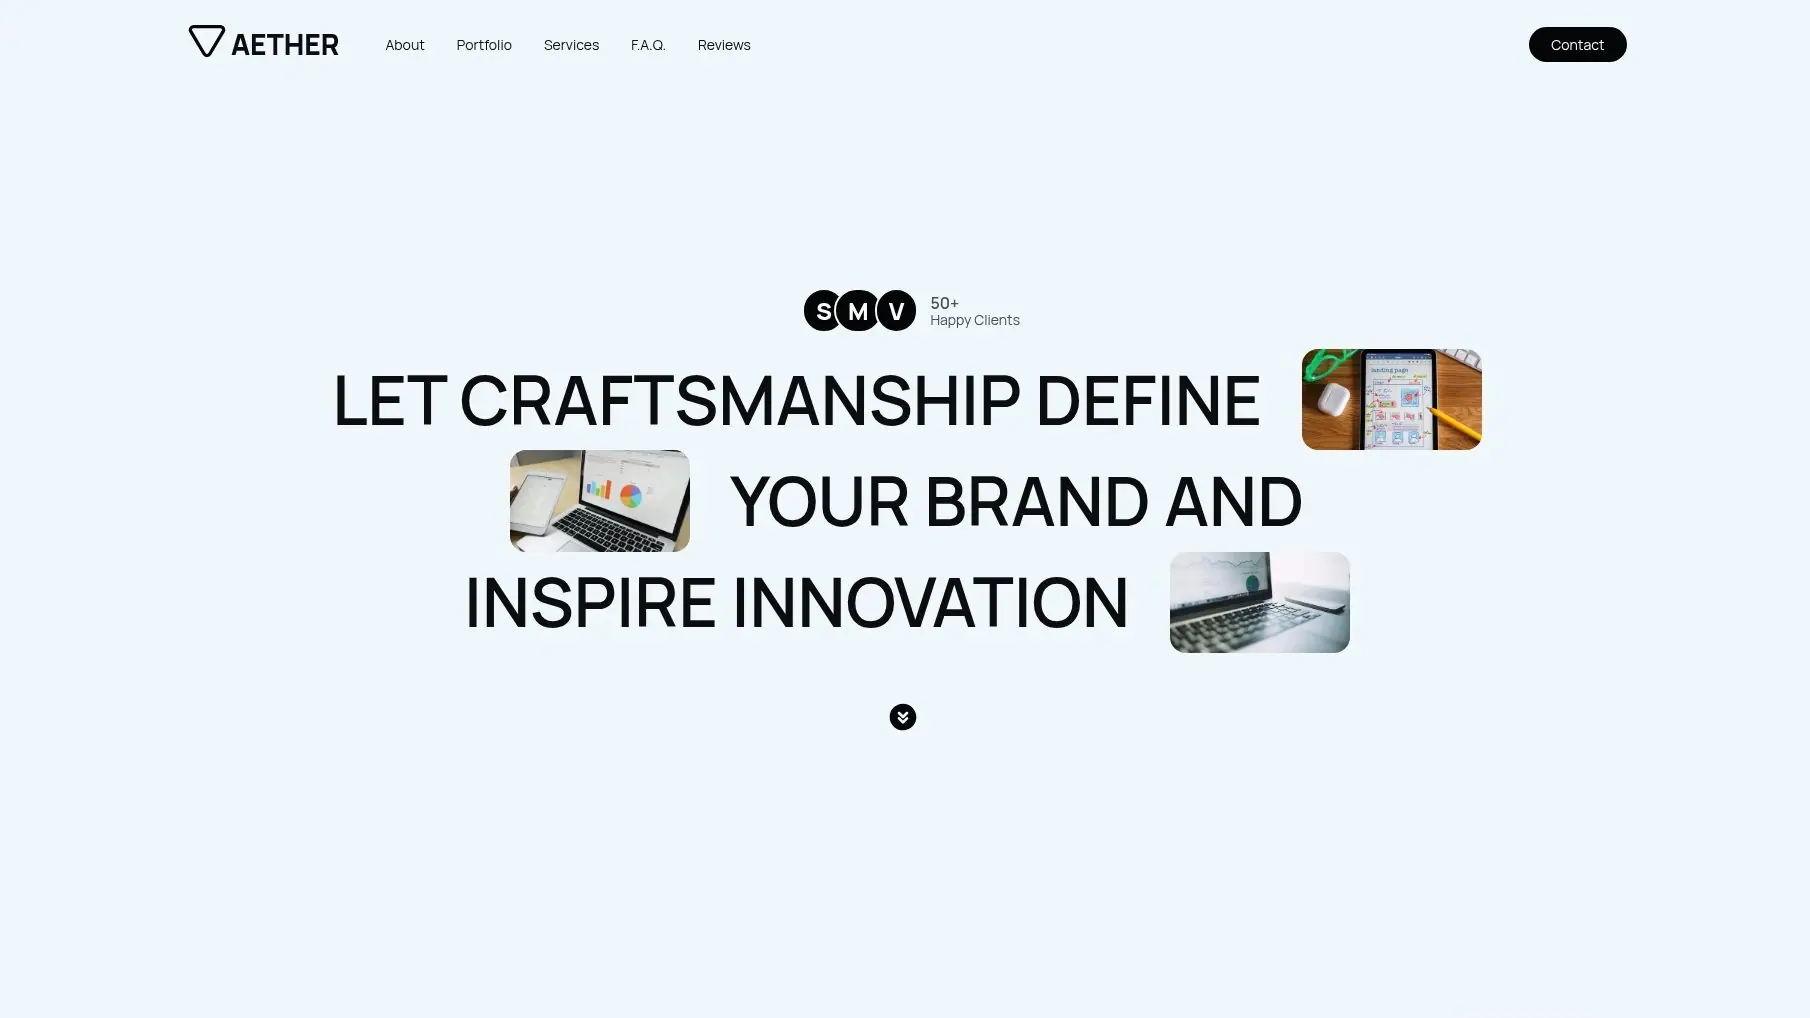
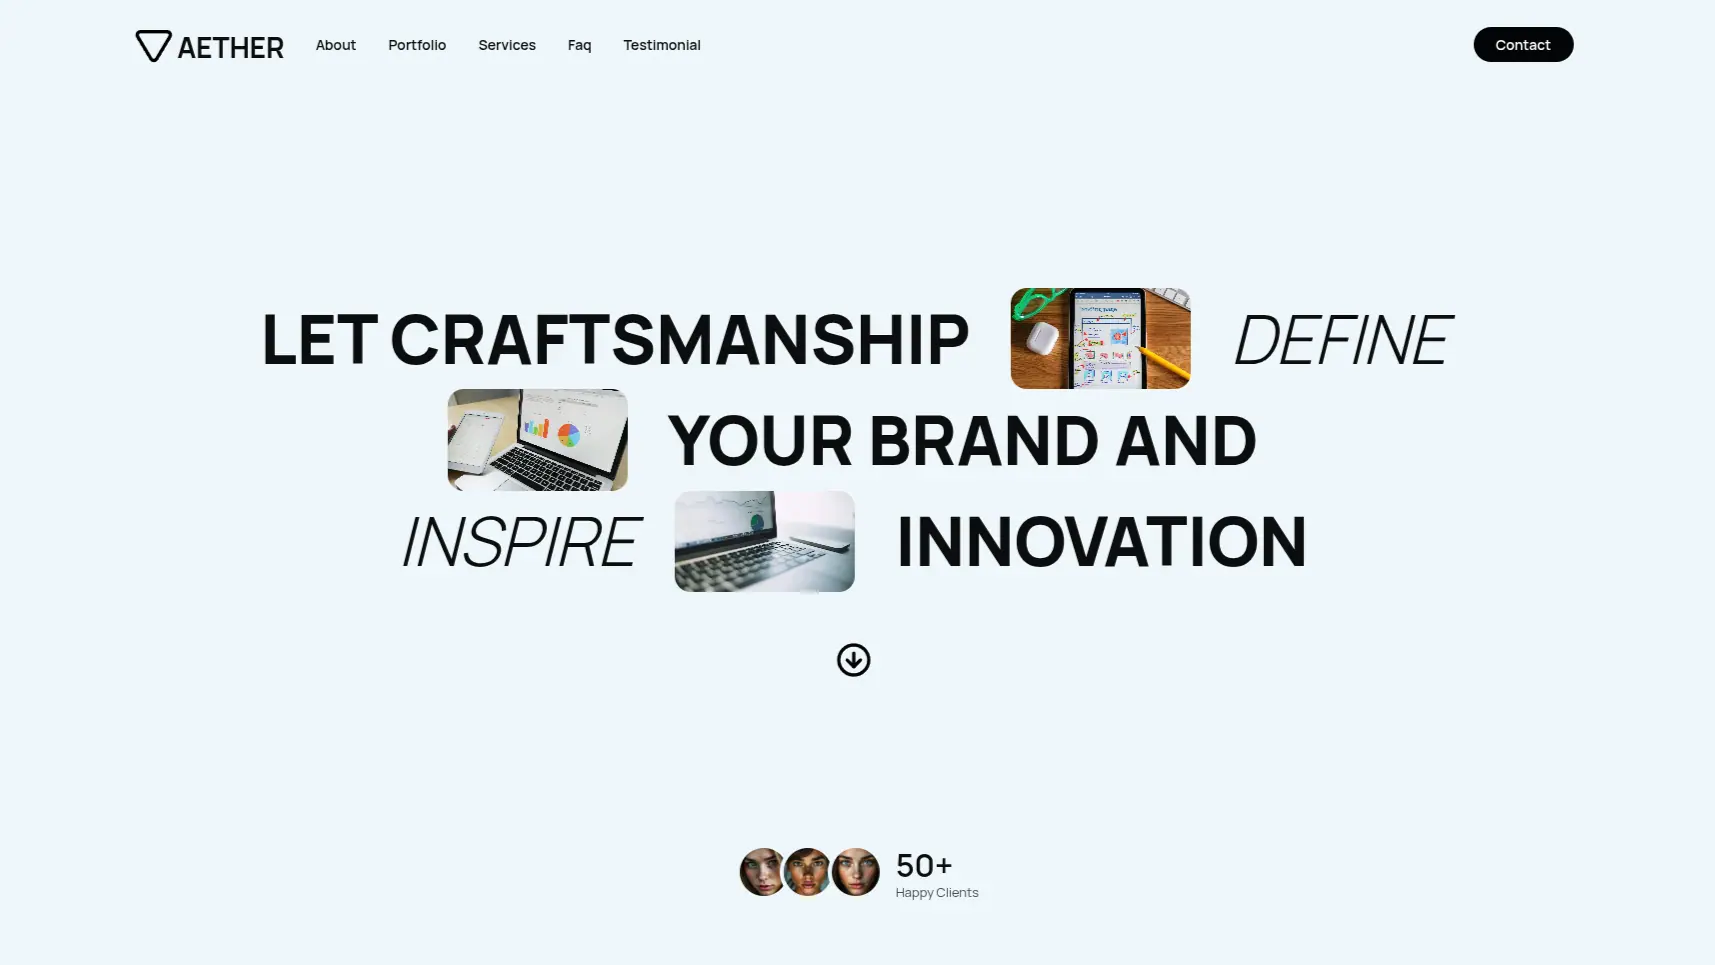
chore: redesign layout

diff --git a/src/components/shared/DarkMode.tsx b/src/components/shared/DarkMode.tsx
@@ -10,13 +10,13 @@ import {
 } from 'components/ui/dropdown-menu.tsx'
 
 export function DarkMode() {
-  const [theme, setThemeState] = React.useState<
-    'theme-light' | 'dark' | 'system'
-  >('dark')
+  const [theme, setThemeState] = React.useState<'light' | 'dark' | 'system'>(
+    'dark'
+  )
 
   React.useEffect(() => {
     const isDarkMode = document.documentElement.classList.contains('dark')
-    setThemeState(isDarkMode ? 'dark' : 'theme-light')
+    setThemeState(isDarkMode ? 'dark' : 'light')
   }, [])
 
   React.useEffect(() => {
@@ -42,7 +42,7 @@ export function DarkMode() {
       </DropdownMenuTrigger>
 
       <DropdownMenuContent align="center">
-        <DropdownMenuItem onClick={() => setThemeState('theme-light')}>
+        <DropdownMenuItem onClick={() => setThemeState('light')}>
           Light
         </DropdownMenuItem>
         <DropdownMenuItem onClick={() => setThemeState('dark')}>

diff --git a/src/components/shared/Forms/Input.tsx b/src/components/shared/Forms/Input.tsx
@@ -12,7 +12,7 @@ const Input = ({ name, title, errors, ...rest }: InputProp) => {
       </label>
 
       <input
-        className={`${input} ${errors ? '!border-red-500' : 'border-initial'} text-sm`}
+        className={`${input} ${errors ? '!border-red-500' : 'border-initial'} placeholder:text-xs`}
         id={name}
         name={name}
         placeholder={title}

diff --git a/src/components/shared/Forms/Textarea.tsx b/src/components/shared/Forms/Textarea.tsx
@@ -12,7 +12,7 @@ const Textarea = ({ name, title, errors, ...rest }: TextAreaProp) => {
       </label>
 
       <textarea
-        className={`${input} ${errors ? '!border-red-500' : 'border-initial'} h-[9rem] resize-y`}
+        className={`${input} ${errors ? '!border-red-500' : 'border-initial'} h-[9rem] resize-y placeholder:text-xs`}
         id={name}
         name={name}
         placeholder={title}

diff --git a/src/components/shared/Forms/forms.tsx b/src/components/shared/Forms/forms.tsx
@@ -7,4 +7,4 @@ export const input =
 export const checkinput = 'border border-teal bg-transparent'
 
 export const error =
-  'mt-2 font-main text-red-500 text-sm font-light tracking-wide'
+  'mt-1 font-main text-red-500 text-xs font-light tracking-wide'

diff --git a/src/styles/base.css b/src/styles/base.css
@@ -224,7 +224,7 @@
 
 @layer utilities {
   .wrapper {
-    max-width: 1300px;
+    max-width: 1440px;
     width: 90%;
     height: 100%;
     margin: 0 auto;

diff --git a/src/content/websites/aether.md b/src/content/websites/aether.md
@@ -2,8 +2,8 @@
   id: 15
   date: 2025-11-01
   title: Aether
-  subtitle: Business portfolio
-  description: AETHER. A business portfolio built with HTML, CSS, and JavaScript serves as a digital showcase of an individual's skills, projects, and experience. It typically includes key sections such as Projects, Services, and Contact, allowing visitors to explore the creator's work, understand their expertise, and get in touch.
+  subtitle: Services Landing Page
+  description: AETHER. A services landing page built with HTML, CSS, and JavaScript serves as a digital showcase of an individual's skills, projects, and experience. It typically includes key sections such as Projects, Services, and Contact, allowing visitors to explore the creator's work, understand their expertise, and get in touch.
   techs: 
   - HTML
   - CSS
@@ -11,7 +11,7 @@
   - CLOUDFLARE
   image:
     src: /images/aether.webp
-    alt: business portfolio
+    alt: services landing page
     width: 1920
     height: 1080
   link: https://aether-demo.pages.dev

diff --git a/src/content/hero/hero.md b/src/content/hero/hero.md
@@ -1,9 +1,9 @@
 ---
   id: 0
   slugs: "hero"
-  title: "Create simple things on the cyber space"
+  title: "Create simple things on the cyberspace"
   subtitle: "Front End Developer"
-  description: "As a front-end developer, I focus in building, debugging, and maintaining responsive and accessible web applications using HTML, CSS, JavaScript, TypeScript, and modern frameworks like React and Next.js."
+  description: "As a front-end developer, I focus in building responsive and modern websites using HTML, CSS and JavaScript."
   link: "#projects"
   text: "My Projects"
 ---

diff --git a/src/content/bio/bio.md b/src/content/bio/bio.md
@@ -2,5 +2,5 @@
   id: 0
   slugs: "bio"
   title: "Codezen?"
-  description: "What I like about front-end development is solving all kinds of problems, whether it is creating a smooth animated site, or fixing navigation, so users can find information quickly and easily. \n\nThat is why I believe in delivering a fast-loading, responsive website with basic search engine optimization, and a user-friendly experience with clean, well-documented code that works across all browsers. I also conduct audits and refactor existing sites to improve usability. I value clear communication and strive to deliver projects on time and within budget. \n\nWhen I’m not coding, you’ll find me exploring new design trends or experimenting with side projects that push my skills further. If you are looking for a front-end developer, let's start your project today."
+  description: "What I like about front-end development is solving all kinds of problems, whether it is creating a smooth animated site, or fixing navigation, so users can find information quickly and easily. \n\nWhen I’m not coding, you’ll find me exploring new design trends or experimenting with side projects that push my skills further. If you are looking for a front-end developer, let's start your project today."
 ---

diff --git a/src/content/websites/nyx.md b/src/content/websites/nyx.md
@@ -3,7 +3,7 @@
   date: 2025-10-26
   title: Nyx
   subtitle: Personal portfolio
-  description: NYX. A dynamic portfolio crafted with HTML, CSS, and JavaScript offers an engaging, responsive presentation of your projects and talents, featuring intuitive navigation, interactive elements, and a mobile-friendly design for a consistent experience on all devices.
+  description: NYX. A static portfolio crafted with HTML, CSS, and JavaScript offers an engaging, responsive presentation of your projects and talents, featuring intuitive navigation, interactive elements, and a mobile-friendly design for a consistent experience on all devices.
   techs: 
   - HTML
   - CSS